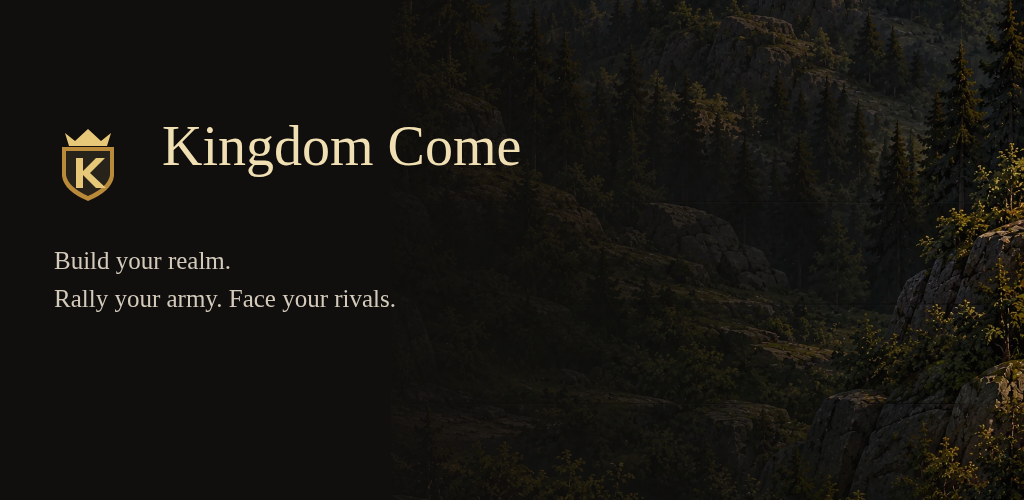
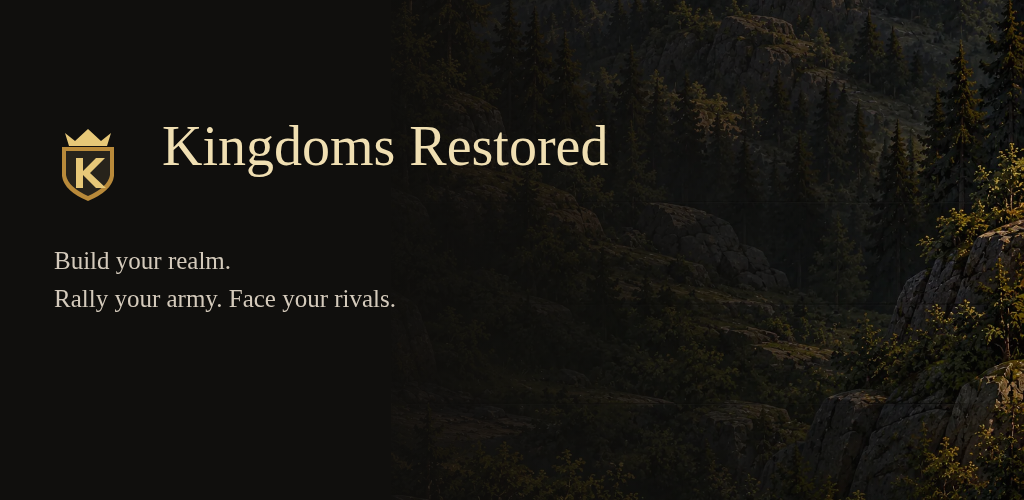
Rebrand public game surfaces as Kingdoms Restored

Changed region(s): [[0.3438, 0.24, 0.5938, 0.33]]

diff --git a/knights-reforged/src/legal-content.ts b/knights-reforged/src/legal-content.ts
@@ -4,7 +4,7 @@ export const legalPages = {
     [
       [
         "Status and controller",
-        "Review draft — not a final legal notice. Publisher/controller: [OWNER TO COMPLETE]. Privacy contact and effective date: [OWNER TO COMPLETE]. These factual fields must be completed before the notice is published for testing."
+        "Review draft — not a final legal notice. Publisher/controller: [OWNER TO COMPLETE]. Privacy/support contact: m055allsupport@gmail.com. Effective date: [OWNER TO COMPLETE]. These factual fields must be completed before the notice is published for testing."
       ],
       [
         "Account and gameplay data",
@@ -20,7 +20,7 @@ export const legalPages = {
       ],
       [
         "Operations and providers",
-        "Traffic is transmitted over HTTPS to the Kingdom Come service hosted on Railway. PostgreSQL stores account/game records. Encrypted recovery artifacts and independently restored recovery copies exist. Runtime HTTP logging may process request/network metadata; provider-side logging, access, locations, retention and subprocessors require owner confirmation. No analytics, advertising, billing or push SDK is bundled in the reviewed native client. This is not a claim that providers collect no operational data."
+        "Traffic is transmitted over HTTPS to the Kingdoms Restored service hosted on Railway. PostgreSQL stores account/game records. Encrypted recovery artifacts and independently restored recovery copies exist. Runtime HTTP logging may process request/network metadata; provider-side logging, access, locations, retention and subprocessors require owner confirmation. No analytics, advertising, billing or push SDK is bundled in the reviewed native client. This is not a claim that providers collect no operational data."
       ],
       [
         "Purpose and disclosure",
@@ -41,7 +41,7 @@ export const legalPages = {
     [
       [
         "Draft and parties",
-        "Review draft. Publisher/legal entity, contact, effective date, applicable law and minimum age: [OWNER TO COMPLETE]. Do not present this draft as final legal advice or a completed contract."
+        "Review draft. Publisher/legal entity, effective date, applicable law and minimum age: [OWNER TO COMPLETE]. Support/privacy contact: m055allsupport@gmail.com. Do not present this draft as final legal advice or a completed contract."
       ],
       [
         "Accounts and security",
@@ -49,7 +49,7 @@ export const legalPages = {
       ],
       [
         "Game service",
-        "Kingdom Come is an evolving multiplayer fantasy game. Quests, battles, bounties, property, army and virtual gold follow the displayed rules. Virtual gold is a game resource; the reviewed client provides no cash-out, real-money wager or native billing integration. Publisher decisions concerning purchases, refunds, changes, service availability and virtual-item rights require final review."
+        "Kingdoms Restored is an evolving multiplayer fantasy game. Quests, battles, bounties, property, army and virtual gold follow the displayed rules. Virtual gold is a game resource; the reviewed client provides no cash-out, real-money wager or native billing integration. Publisher decisions concerning purchases, refunds, changes, service availability and virtual-item rights require final review."
       ],
       [
         "Public content",
@@ -70,7 +70,7 @@ export const legalPages = {
     [
       [
         "Public posting agreement",
-        "Review draft, version community-2026-11-05-draft-1. Posting requires explicit acceptance of this version and the Terms. Final publisher/contact details and enforcement policy require owner review before release."
+        "Review draft, version community-2026-11-05-draft-1. Posting requires explicit acceptance of this version and the Terms. Final publisher/contact details and enforcement policy require owner review before release. Support and appeals: m055allsupport@gmail.com."
       ],
       [
         "Prohibited content",
@@ -86,7 +86,7 @@ export const legalPages = {
       ],
       [
         "Moderation",
-        "Author removal, profile-owner hiding, operator hiding/restoration and timed posting restrictions are available and auditable. Reports must be reviewed by the designated moderation operator; reviewer staffing, response expectations, escalation and appeal/contact path: [OWNER TO COMPLETE]. Report volume alone does not establish wrongdoing."
+        "Author removal, profile-owner hiding, operator hiding/restoration and timed posting restrictions are available and auditable. Reports must be reviewed by the designated moderation operator; Appeals and support: m055allsupport@gmail.com. Reviewer staffing, response expectations and escalation: [OWNER TO COMPLETE]. Report volume alone does not establish wrongdoing."
       ]
     ]
   ],

diff --git a/knights-reforged/src/app.ts b/knights-reforged/src/app.ts
@@ -195,7 +195,7 @@ export async function createApp(options: { db: Database; config: Config; logger?
       armyTab:query.tab==='army'||query.tab==='dashboard'?query.tab:'recruit',armyEvents:[],rosterFilter:['accepted','incoming','outgoing'].includes(query.roster??'')?query.roster:'all',
       csrf: session?.csrf_token ?? '', accountName: session?.username ?? '',
       commandId: randomUUID, notice, error: null, opponents: [], nextOpponentCursor:null, battles: [], battle: null,
-      sound:state?await soundPreferences(db,state.id):mutedSound,soundEvent:soundFeedback(data.actionResult??actionResult,data.battle,state?.id),experience:playerExperience,title: 'Kingdom Come', authMode: 'login', returnTo:safeReturn((request.query as {returnTo?:string}).returnTo??asBody(request).returnTo),formValues: { username: '', name: '' }, ...data,
+      sound:state?await soundPreferences(db,state.id):mutedSound,soundEvent:soundFeedback(data.actionResult??actionResult,data.battle,state?.id),experience:playerExperience,title: 'Kingdoms Restored', authMode: 'login', returnTo:safeReturn((request.query as {returnTo?:string}).returnTo??asBody(request).returnTo),formValues: { username: '', name: '' }, ...data,
     });
   }
 

diff --git a/knights-reforged/src/server.ts b/knights-reforged/src/server.ts
@@ -35,7 +35,7 @@ try {
   stopBotEconomy=startBotEconomy(db,config.livingBotEconomyEnabled,()=>app.log.error('Autonomous rival purchase check failed; committed decisions will not repeat.'));
   stopBotCombat=startBotCombat(db,config.livingBotCombatEnabled,()=>app.log.error('Autonomous rival duel check failed; committed battles will not repeat.'));
   stopNpcSponsorship=startNpcSponsorship(db,!!config.npcSponsorshipEnabled,()=>app.log.error('NPC sponsorship failed; committed window decisions will not repeat.'));
-  console.log(`Kingdom Come is ready at ${config.origin}`);
+  console.log(`Kingdoms Restored is ready at ${config.origin}`);
 } catch (error) {
   app.log.error(error, 'Startup failed. Run npm run db:migrate before starting.');
   await db.end();

diff --git a/knights-reforged/public/phase44.css b/knights-reforged/public/phase44.css
@@ -1,4 +1,4 @@
-/* Kingdom Come Phase 4.4: compact reference-inspired presentation. Original art retained. */
+/* Kingdoms Restored Phase 4.4: compact reference-inspired presentation. Original art retained. */
 .royal-announcement{border:1px solid #66532f;border-left:3px solid #c8a855;background:linear-gradient(110deg,#171711ec,#222018e8);padding:.65rem .8rem;margin-bottom:.7rem}
 .royal-announcement h2{font-family:Georgia,serif;font-size:1rem;color:#dcc78c;margin:0 0 .35rem}.royal-announcement p{font-size:.82rem;font-weight:700;line-height:1.5;letter-spacing:.025em;margin:0;overflow-wrap:anywhere}
 .region-filter{position:relative;border:1px solid #776342;border-radius:5px;background:#1a1a1aea;margin:.6rem 0 1rem;box-shadow:inset 0 1px #c7b07333}

diff --git a/knights-reforged/public/alpha.css b/knights-reforged/public/alpha.css
@@ -1,4 +1,4 @@
-/* Kingdom Come alpha: screenshot/video-inspired content reconstruction.
+/* Kingdoms Restored alpha: screenshot/video-inspired content reconstruction.
    The legacy five-tab layout remains; runtime artwork uses documented replacements. */
 .kingdoms-ui { --text:#eee9dd; --muted:#c5c2b7; font-family:Arial,Helvetica,sans-serif; line-height:1.35; }
 .kingdoms-ui .topbar { min-height:38px; padding-top:env(safe-area-inset-top); padding-bottom:0; }

diff --git a/knights-reforged/public/refinements.css b/knights-reforged/public/refinements.css
@@ -1,4 +1,4 @@
-/* Kingdom Come Phase 3.5 refinements retain the original compact shared layout. */
+/* Kingdoms Restored Phase 3.5 refinements retain the original compact shared layout. */
 .hourly-flow[data-flow=positive] { color:#adca98!important; }
 .hourly-flow[data-flow=negative] { color:#e9a292!important; }
 .hourly-flow[data-flow=neutral] { color:#c1c1ae!important; }

diff --git a/knights-reforged/docs/google-play/PLAY_STORE_READINESS.md b/knights-reforged/docs/google-play/PLAY_STORE_READINESS.md
@@ -1,6 +1,6 @@
 # Private Google Play INTERNAL testing — PR #88
 
-Candidate reconciled with deployed `98756a0449b2b260c62c26d52491a23954f82788`.
+Candidate reconciled with deployed `c8247dfa891c9f2c0458ff7df523f09fa24f0cfa`.
 PR remains draft. No merge, deployment, real erasure, credential installation,
 provider change, Play upload or public release is performed. Current exact-head
 results/artifact links are recorded on the PR, never borrowed from `3d273e8`.
@@ -9,7 +9,7 @@ results/artifact links are recorded on the PR, never borrowed from `3d273e8`.
 |---|---|---|
 | Production integration | Current gameplay, Dark Medieval art, class silhouettes, notifications, immutable rules, financial histories and XP matcher preserved; old Play migrations moved to053/054 after deployed052 | Separate merge/backend-release approval; new required exact-head CI |
 | Android/security | `game.kingdomcome.rpg`, compile/target 36, min 26, sole INTERNET permission, HTTPS first-party WebView, safe lifecycle/Back/error recovery and no POST replay; unit/lint/AAB/native emulator workflows | Owner registration/upload key/certificate/version; no signed artifact without private configuration |
-| Privacy/UGC | Accessible HTML notices and deletion requests; explicit registration/posting consent, user/message reports, reversible blocks, timed mute/appeal and private moderation queue | Final publisher/contact/applicable legal facts, human moderation operation, backend publication |
+| Privacy/UGC | Accessible HTML notices and deletion requests; explicit registration/posting consent, user/message reports, reversible blocks, timed mute/appeal and private moderation queue | Final publisher/applicable legal facts; approved support/privacy contact m055allsupport@gmail.com, human moderation operation, backend publication |
 | Deletion fulfillment | Physical account/credential removal, personal-data minimization, exact financial preservation, restricted role, independent signed journal relay, recovery fencing and real production release-mutex verification | Separately approved operator/volume/readers/key/environment setup and synthetic operational acceptance; execution remains off |
 | Retention | A/B/D approved; B exact approved provenance recorded; C conditional with completed owner Railway observations and ~90-day GitHub artifacts | Other recovery copies/provider practices/holds unresolved; no 30-day guarantee, no existing backup changed |
 | Browser/assets | Real EJS/PostgreSQL viewport matrix, synthetic native forms and original gameplay/listing assets | Genuine browser captures are distinct from emulator, hardware and Play pre-launch evidence |
@@ -32,7 +32,7 @@ results/artifact links are recorded on the PR, never borrowed from `3d273e8`.
   `/legal/community` or `/account-deletion` routes. Local tests require HTTP200.
   Historical live404 evidence is in `live-policy-endpoints.json`; it is not a fresh
   probe of the present deployment. Only safe `/healthz` was refreshed during this
-  task and reported ready at98756a0. Avoid creating live anonymous sessions merely
+  task and reported ready at c8247df. Avoid creating live anonymous sessions merely
   to probe legal pages before separately approved backend deployment.
 - A queue alone is insufficient. Today no production fulfillment operator is
   installed; do not claim a real person's deletion request could be completed by
@@ -44,8 +44,8 @@ results/artifact links are recorded on the PR, never borrowed from `3d273e8`.
 
 ## Shortest owner sequence — separate authorizations remain
 
-1. Finalize only factual publisher/controller, privacy/support/appeal contact,
-   effective date and applicable legal/audience text in the draft notices. A/B/D
+1. Finalize only factual publisher/controller,
+   effective date and applicable legal/audience text (support/privacy/appeals contact is already m055allsupport@gmail.com) in the draft notices. A/B/D
    do not need reapproval. Do not claim unknown provider expiry or30-day enforcement.
 2. Review/approve the final PR88 source, then separately authorize the normal
    protected backend merge/deploy AND the bounded private erasure operator/journal/
@@ -64,7 +64,7 @@ results/artifact links are recorded on the PR, never borrowed from `3d273e8`.
    LLC/operator developer-profile exposure, enroll Play App Signing, and choose the
    existing upload identity or privately create one by your explicit choice. Pick
    a never-used higher versionCode. After authorized merge and green exact-source
-   app+Android CI, run **Kingdom Come signed Android bundle** on `release/production`,
+   app+Android CI, run **Kingdoms Restored signed Android bundle** on `release/production`,
    enter version_code/version_name and approve `android-release`. Download only the
    verified **OWNER_UPLOAD_SIGNED** bundle/report matching your certificate and SHA.
 5. Console → Testing → Internal testing: add an email list/Google Group (up to 100),
@@ -88,3 +88,58 @@ transitives), `fast-uri`4.2.2→4.2.3 and AJV's3.1.8→3.1.9. No new application
 permission or gameplay behavior is introduced. Both production dependency trees
 report zero current npm advisories after these updates; final CI independently
 checks the locked versions. No global npm setting or shared worktree was changed.
+
+## Internal App Sharing is a separate delivery option
+
+Reviewed 2026-11-13. [Official IAS instructions](https://support.google.com/googleplay/android-developer/answer/9844679):
+IAS accepts an already signed APK/AAB signed with any key and Google re-signs it
+with its separate IAS key. It is not an Internal testing-track release, does not
+enter the bundle explorer, and cannot be promoted to a testing/production track.
+A production upload key is therefore not an IAS platform requirement. No new key
+is generated or approved here; any build/signing action still needs the owner's
+separate choice. An unsigned artifact is not claimed uploadable.
+
+For ~50 private recipients, select **Email lists** under Internal app sharing →
+Uploaders and testers; avoid the default anyone-with-link access. Invite those
+Google accounts. Each link permits at most100 downloads and expires after60 days;
+testers must enable IAS in their Play Store app. Do not upload/share until the
+owner approves and developer-identity exposure is resolved. IAS does not privatize
+the publicly reachable game server or make test actions synthetic.
+
+**Identity checkpoint before any link distribution:** inspect Play Console →
+Developer account → Account details / developer profile and the linked Payments
+profile. Confirm personal versus organization account, verified legal entity,
+address, public developer email/phone, monetization and regional trader/contact
+disclosures. Preview the actual tester-facing installation/developer surfaces with
+a separate invited Google account. Do not send private identity documents here.
+An alternate display name or support email does not suppress Google's identity
+rules. [Google's identity guide](https://support.google.com/googleplay/android-developer/answer/13628312)
+says personal accounts expose legal name/country/email (full address if monetized,
+with possible regional additions); organizations expose legal name/address and
+other verified business details. The available connection cannot inspect this
+owner Console, so actual tester exposure remains unverified.
+
+Normal Internal testing uses the protected **OWNER_UPLOAD_SIGNED** AAB, permanent
+ID `game.kingdomcome.rpg`, Play App Signing and the Internal testing track's tester
+list/opt-in URL. It supports100 testers; do not select public Production/Open
+rollout. Later public-release listing, Data Safety/App Content and applicable
+production-access requirements remain separate. See
+[official testing tracks](https://support.google.com/googleplay/android-developer/answer/9845334).
+
+## Current source integration and activation boundaries
+
+PR88 reconciliation parent: `ab5fb629f9ba578c5100c127816090133d1b310f` (PR head
+6f34d5e plus deployed c8247df). The manifest union retains195 entries, including
+all nine Play-only tests and production's notification semantics test. The
+separately reviewable Kingdoms Restored source change is stacked on that result.
+New exact-head CI supersedes old-head evidence; inspect the actual PR checks.
+Neither source change is merged/deployed by this work. Runtime feature activations
+are separately owner-authorized and do not authorize Play/erasure activation.
+
+Deletion readiness still needs: separately authorized protected backend release;
+private restricted operator and independent durable journal/relay installation;
+owner signer/public-key policy bindings; actual protected release-mutex integration;
+synthetic physical-erasure plus old-backup restore-suppression acceptance; and
+working public notices/deletion URLs. These are documented in ACCOUNT_DELETION.md.
+No real account deletion, credential installation or journal setup is performed.
+A/B/D remain approved; C stays conditional with no changed provider/backup policy.

diff --git a/android/README.md b/android/README.md
@@ -2,7 +2,7 @@
 
 > Historical PR20 sideload guide. For this reconciled Play candidate, use [PLAY_RELEASE.md](PLAY_RELEASE.md). Package suffix, version, AAB and signing procedures below are historical unless repeated there.
 
-# Kingdom Come — sideloadable Android alpha
+# Kingdoms Restored — sideloadable Android alpha
 
 Implements [Issue #19](https://github.com/catillatio/test/issues/19). A small Java/platform WebView shell loads **https://test-production-995c.up.railway.app** in its own window. Application ID: `game.kingdomcome.alpha`; version `0.1.0-alpha.1` / code `1`; Android 8.0/API 26 or newer. The intended first physical test device is the owner's Samsung Galaxy S24. The APK is an online client, not an offline game or a copy of the server/database.
 
@@ -10,7 +10,7 @@ A native shell avoids Capacitor, AndroidX and a duplicate game UI/API. Existing 
 
 ## Download the actual APK from GitHub
 
-1. Open the Android draft PR → **Checks → Kingdom Come Android alpha APK → Details** (or repository **Actions → Kingdom Come Android alpha APK**).
+1. Open the Android draft PR → **Checks → Kingdoms Restored Android alpha APK → Details** (or repository **Actions → Kingdoms Restored Android alpha APK**).
 2. Select the completed successful run for the reviewed commit. Under **Artifacts**, download **`kingdom-come-android-alpha-<run ID>`**. GitHub requires sign-in to download artifacts. Extraction produces `kingdom-come-alpha-debug.apk`, `SHA256SUMS.txt` and `verification.json` with package, version, build commit, APK hash and public signing-certificate fingerprint. Never install the checks/reports artifact or a source-code ZIP.
 3. Artifacts are retained for **30 days**. On Android, extract the ZIP with **My Files**. Preserve the checksum/report with the APK. On a trusted desktop, `sha256sum --check SHA256SUMS.txt` verifies the extracted file.
 
@@ -20,7 +20,7 @@ The Android workflow runs on relevant PR changes and can be manually requested a
 
 1. Download/extract the reviewed artifact above, then tap `kingdom-come-alpha-debug.apk` in My Files.
 2. If Android requests it, allow **Install unknown apps** for the specific app you used to open the APK, then choose **Install**. Return that install permission to its previous state afterwards. Samsung Auto Blocker/device-management policy may prohibit sideloading; use an owner-approved test-device configuration or the browser game rather than bypassing an organizational restriction.
-3. Open **Kingdom Come Alpha**. Log in with the existing game account. The app has its own private WebView cookie storage, so a Chrome login is not automatically imported. Existing characters/progress remain on the same server.
+3. Open **Kingdoms Restored**. Log in with the existing game account. The app has its own private WebView cookie storage, so a Chrome login is not automatically imported. Existing characters/progress remain on the same server.
 4. Enable sound only in the game's Settings if desired. Saved server sound/mute/volume preferences are not overridden; playback still requires a browser-recognized user gesture. Ordinary navigation remains silent.
 
 Only INTERNET permission is declared. There is no camera, storage, contacts, location, notifications, billing, tracking SDK, native credential storage, native JavaScript bridge or background bot worker. The original temporary icon/splash provenance is in [ASSETS.md](ASSETS.md).

diff --git a/android/store/LISTING_DRAFT.md b/android/store/LISTING_DRAFT.md
@@ -1,6 +1,6 @@
 # Listing draft — owner review, no submission
 
-Name (12/30 characters): **Kingdom Come**
+Name (17/30 characters): **Kingdoms Restored**
 
 Short description (77/80 characters):
 
@@ -8,13 +8,13 @@ Build your medieval realm, rally an army, and challenge rivals in a dark RPG.
 
 Full description:
 
-Enter Kingdom Come, a compact multiplayer medieval fantasy RPG built for quick decisions and an enduring realm.
+Enter Kingdoms Restored, a compact multiplayer medieval fantasy RPG built for quick decisions and an enduring realm.
 
 Complete quests, build your army, acquire weapons, armor and spells, and invest in land. Challenge rivals, review detailed battle reports, and pursue player-posted bounties. Manage your exposed gold and protect savings in the Vault. Follow your character's progression, achievements and standing in the Hall of Champions.
 
 The Dark Medieval interface combines illustrated equipment and environments with readable resource displays and five familiar gameplay destinations. Public profile comments and realm broadcasts let players interact; reporting and social-blocking controls help manage those interactions.
 
-An internet connection and a Kingdom Come account are required. Gameplay and transactions are processed by the server. This is a pre-release candidate: final availability, terms and publisher details require owner confirmation.
+An internet connection and a Kingdoms Restored account are required. Gameplay and transactions are processed by the server. This is a pre-release candidate: final availability, terms and publisher details require owner confirmation.
 
 Do not claim offline progression, real-money winnings, rankings, prices or features not actually offered. Remove the pre-release sentence only when factually appropriate. Final wording is subject to owner's audience, monetization and distribution choices.
 
@@ -32,3 +32,5 @@ First Android release candidate: secure HTTPS game access, Android navigation an
 - Two genuine browser-rendered tablet-layout captures: portrait Home at 2000×3200 and landscape Land at 3200×2000. These show actual app layouts, not physical-tablet certification. Do not claim tablet hardware is tested merely because layouts render at 600/800 CSS pixels.
 
 Publisher contacts, privacy URL, data deletion URL, App access instructions, audience, content-rating questionnaire, countries, Data Safety and ads/monetization declarations are owner-completed Console items. See `knights-reforged/docs/google-play/APP_CONTENT.md`. Store dimensions and limits follow [Google's asset requirements](https://support.google.com/googleplay/android-developer/answer/9866151).
+
+Support and privacy contact: **m055allsupport@gmail.com**. Publisher/controller identity remains owner-supplied; the game title is not a legal entity.

diff --git a/knights-reforged/docs/google-play/REBRAND_REVIEW.md b/knights-reforged/docs/google-play/REBRAND_REVIEW.md
@@ -1,0 +1,40 @@
+# Kingdoms Restored — source review only
+
+This changes the game's display name, not its application identity or design.
+It is stacked on PR88's non-rewriting reconciliation with deployed c8247df.
+PR88 and this rebrand require separate review/merge/deployment approval.
+
+Updated surfaces: EJS page titles, shared branding, authentication, Home tutorial
+invitation, tutorial/rules copy, legal pages, server readiness text, Android labels
+and external-link/error text, current listing draft and feature graphic, current
+Play/Android guides. Public support/privacy/appeals: m055allsupport@gmail.com.
+The feature graphic is re-rendered from its existing HTML composition, original
+castle illustration and original crown/K vector. No approved game art is repainted.
+The app icon/crest bytes remain unchanged; the K remains appropriate to the name.
+
+Preserved: game layout/CSS behavior, routes/forms/JavaScript, matcher and all economy
+functions, player data, immutable rules/migrations/receipts, package names and
+`game.kingdomcome.rpg`, service/project/DB/env identifiers, storage, signing keys,
+cookies/API contracts. Historical screenshots, asset provenance and technical
+records retain their original meaning. They are not current listing candidates.
+The public-branding test explicitly keeps the original immutable experience-policy
+provenance and internal package identity; active UI must contain no former name.
+
+Local evidence: actual synthetic Fastify/EJS renders before/after for login,
+registration, Home, rules, privacy, terms, community and account deletion. New Play
+browser captures replace old-branded current listing candidates. The registered
+branding regression checks templates, label, listing, original art hashes, source
+preservation and accurate contact/retention statements. Required application and
+Android checks must pass on this head; no old AAB hash certifies this candidate.
+No signing key is generated, and any new CI AAB remains unsigned/signing-ready.
+
+Owner factual items remain: true publisher/controller entity, effective date,
+applicable legal/audience/jurisdiction facts and final moderation staffing/response
+policy. The title is not an invented LLC identity. No personal name/address is
+added. Retention A/B/D stand; C is conditional, with no enforced30-day backup
+promise. These drafts must not be represented as final production notices.
+
+Internal App Sharing, normal Internal testing and public rollout are distinct.
+See PLAY_STORE_READINESS.md for official sources, exact owner/privacy checkpoint,
+private tester-list steps and remaining protected deletion setup. No link should
+be distributed before actual developer identity exposure is checked in Console.

diff --git a/knights-reforged/docs/google-play/ASSET_LICENSE_AUDIT.md b/knights-reforged/docs/google-play/ASSET_LICENSE_AUDIT.md
@@ -15,7 +15,7 @@ Source baseline `9429e88365d112f5597371c7aa811110f967558d`. This is a technical 
 | Feature graphic | `android/store/feature-1024x500.png` | Composition of existing approved castle/vector with draft marketing copy; not claimed as an app screenshot | Approve title/copy/rights |
 | Phone listing captures | browser harness + capture JSON | Actual EJS application, synthetic accounts and current approved artwork; no AI conceptual screenshot | Verify final build/listing truthfulness; captures are pre-release candidate, not claimed live Android hardware captures |
 | Reference APKs/screenshots | `original-reference/`, historical design docs | Historical analysis is not redistribution permission. These are not Android payload assets or store screenshots | Do not upload/reference third-party copyrighted game materials as marketing assets |
-| Name and marks | Kingdom Come, genre/original-game inspirations | Repository content does not establish trademark clearance or rights to third-party names | OWNER ACTION REQUIRED: name/trademark/legal review before store publication |
+| Name and marks | Kingdoms Restored, genre/original-game inspirations | Repository content does not establish trademark clearance or rights to third-party names | OWNER ACTION REQUIRED: name/trademark/legal review before store publication |
 | Build tools | Android ASSETS.md and retained Gradle Apache notice | Pinned Gradle/AGP/JDK/SDK, JUnit/Hamcrest build/test-only. No third-party native app library bundled | SDK/build licenses remain applicable; no legal agreement accepted on owner's behalf |
 
 `asset-inventory.json` inventories current candidate runtime file bytes and SHA-256. It is not a license grant or a claim every source-generation account is independently verified. Existing static checks validate registered art bytes, original approved property bindings and absence of active historical APK artwork. The release AAB contains only the native shell/resources; runtime artwork is fetched from the HTTPS game, so it remains in Play's review scope even though absent from the AAB.

diff --git a/knights-reforged/docs/google-play/LEGAL_PRIVACY.md b/knights-reforged/docs/google-play/LEGAL_PRIVACY.md
@@ -2,7 +2,7 @@
 
 ## Status and controller
 
-Review draft — not a final legal notice. Publisher/controller: [OWNER TO COMPLETE]. Privacy contact and effective date: [OWNER TO COMPLETE]. These factual fields must be completed before the notice is published for testing.
+Review draft — not a final legal notice. Publisher/controller: [OWNER TO COMPLETE]. Privacy/support contact: m055allsupport@gmail.com. Effective date: [OWNER TO COMPLETE]. These factual fields must be completed before the notice is published for testing.
 
 ## Account and gameplay data
 
@@ -18,7 +18,7 @@ The first-party kr_session cookie is HTTP-only, SameSite=Lax and Secure on HTTPS
 
 ## Operations and providers
 
-Traffic is transmitted over HTTPS to the Kingdom Come service hosted on Railway. PostgreSQL stores account/game records. Encrypted recovery artifacts and independently restored recovery copies exist. Runtime HTTP logging may process request/network metadata; provider-side logging, access, locations, retention and subprocessors require owner confirmation. No analytics, advertising, billing or push SDK is bundled in the reviewed native client. This is not a claim that providers collect no operational data.
+Traffic is transmitted over HTTPS to the Kingdoms Restored service hosted on Railway. PostgreSQL stores account/game records. Encrypted recovery artifacts and independently restored recovery copies exist. Runtime HTTP logging may process request/network metadata; provider-side logging, access, locations, retention and subprocessors require owner confirmation. No analytics, advertising, billing or push SDK is bundled in the reviewed native client. This is not a claim that providers collect no operational data.
 
 ## Purpose and disclosure
 
